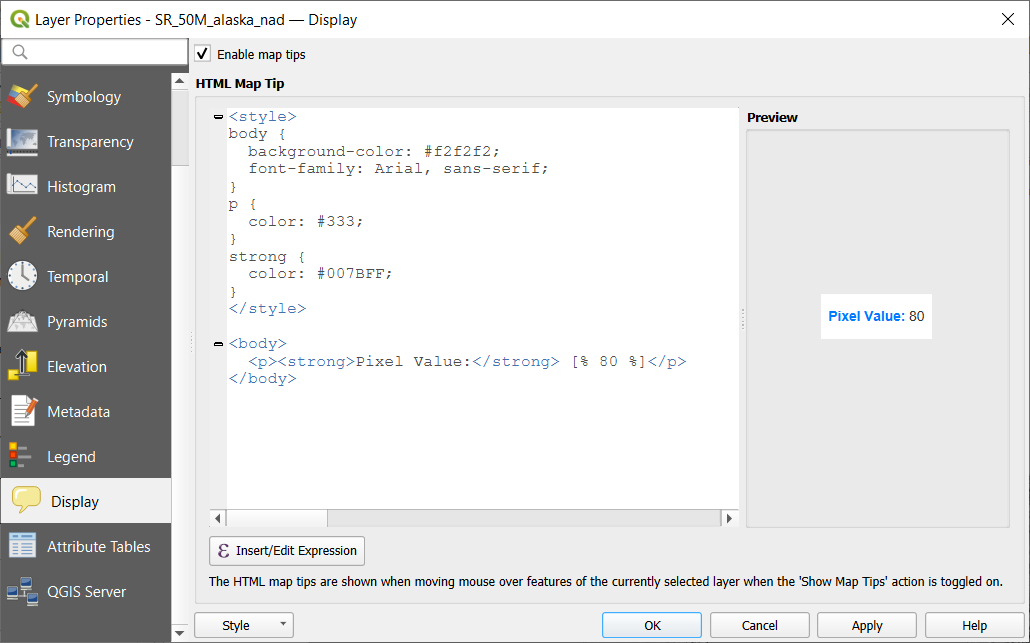
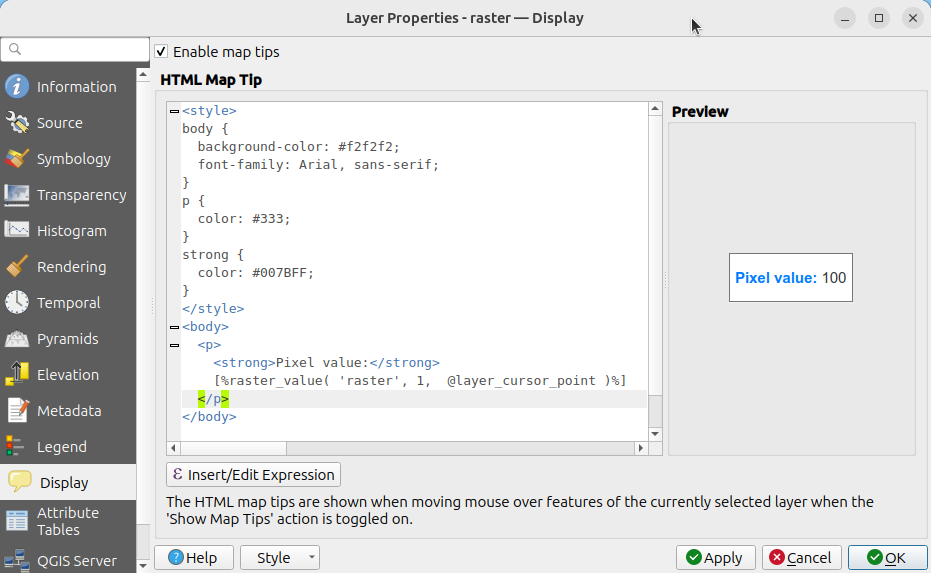
Improve the raster maptip screenshot and add expressions

diff --git a/docs/user_manual/working_with_raster/raster_properties.rst b/docs/user_manual/working_with_raster/raster_properties.rst
@@ -1013,6 +1013,8 @@ pixels identification:
   mixing QGIS expressions and html styles and tags (multiline, fonts, images, hyperlink, tables, ...).
   You can check the result of your code sample in the :guilabel:`Preview` frame. You can also select and
   edit existing expressions using the :guilabel:`Insert/Edit Expression` button.
+* You might look for expressions located in :guilabel:`Rasters` group or also ``@layer_cursor_point`` in the
+  :guilabel:`Expressions` dialog.
 
   .. note:: **Understanding the** :guilabel:`Insert/Edit Expression` **button behavior**
 
